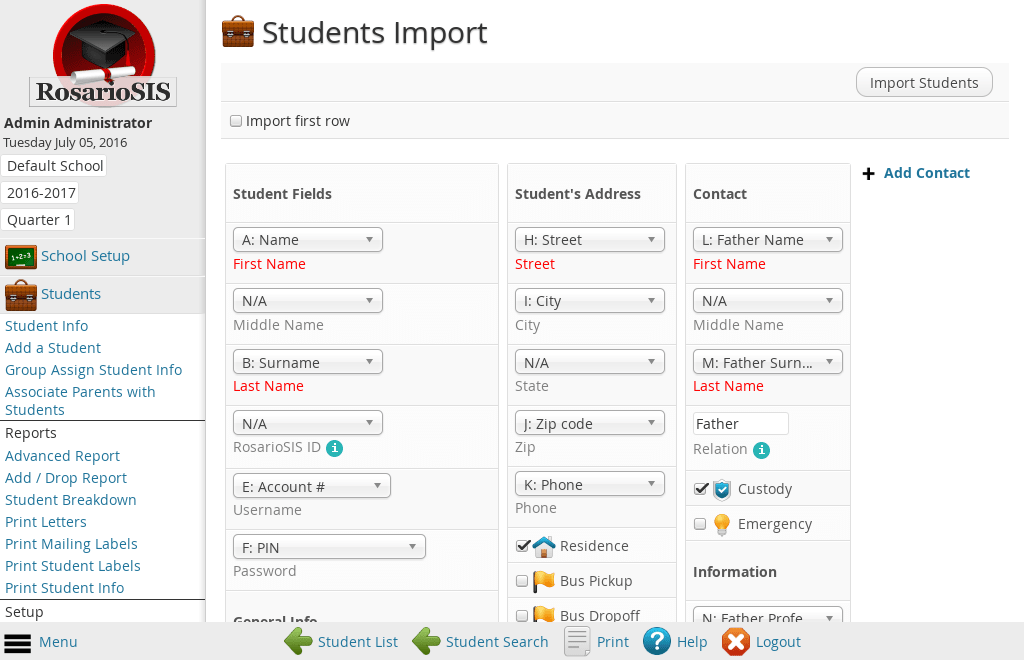
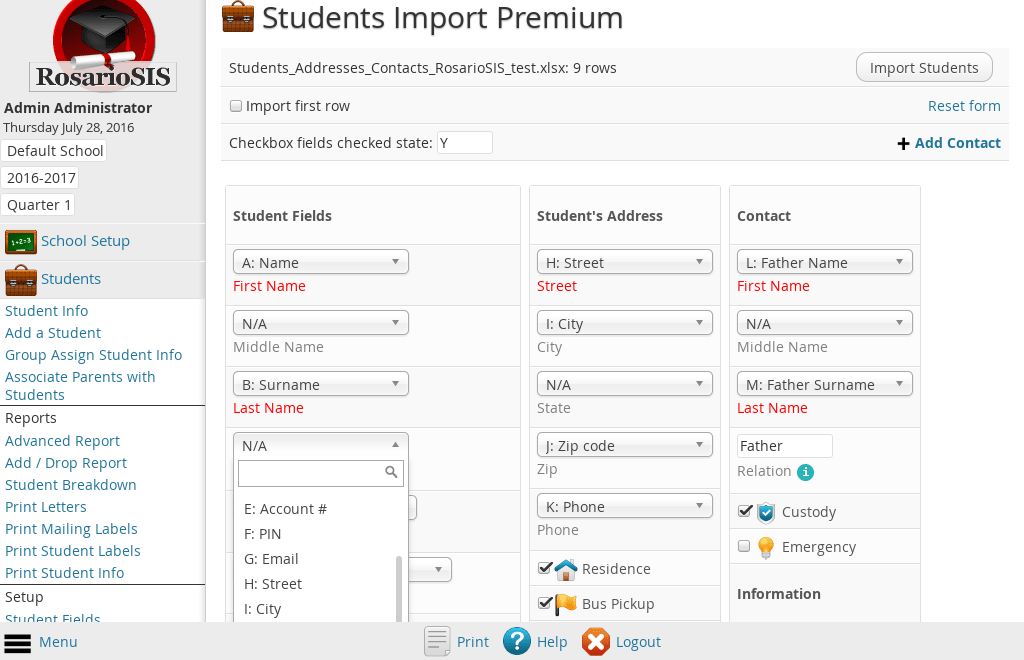
Update DATA_PROCESSING, README (Premium) & add screenshots

diff --git a/README.md b/README.md
@@ -15,13 +15,19 @@ DESCRIPTION
 -----------
 Import Students from a CSV or Excel file.
 Easily bulk upload your Students database to RosarioSIS.
-This module adds a menu entry to the Students module.
+Import Students info (general & custom fields), enroll them & eventually create accounts.
+This module adds an entry to the Students menu.
 
 Includes Help.
-Translated in French & Spanish.
+Translated in [French](https://www.rosariosis.org/fr/students-import-module/) & [Spanish](https://www.rosariosis.org/es/students-import-module/).
 [Data processing reference](https://github.com/francoisjacquet/Students_Import/blob/master/DATA_PROCESSING.md).
 
-Premium module to import Addresses & Contacts & advanced features coming soon!
+[Premium module](https://www.rosariosis.org/students-import-module/#premium-module) features:
+
+- Import Addresses & Contacts (Father, Mother, Guardian...) and their information.
+- Import Addresses & People custom fields.
+- Generate generic Username & Password so Students can login.
+- Change the default value ("Y") recognized as checked state: for example, "Yes" (for your _Checkbox_ type custom fields).
 
 CONTENT
 -------

diff --git a/DATA_PROCESSING.md b/DATA_PROCESSING.md
@@ -2,6 +2,11 @@
 
 How is the CSV / Excel file data processed before it is imported into RosarioSIS database?
 
+## Excel files
+
+Excel files are automatically converted to CSV format.
+Note: Only the first spreadsheet is saved.
+
 ## All data
 [Trimmed](http://php.net/trim) (spaces are stripped), examples:
 
